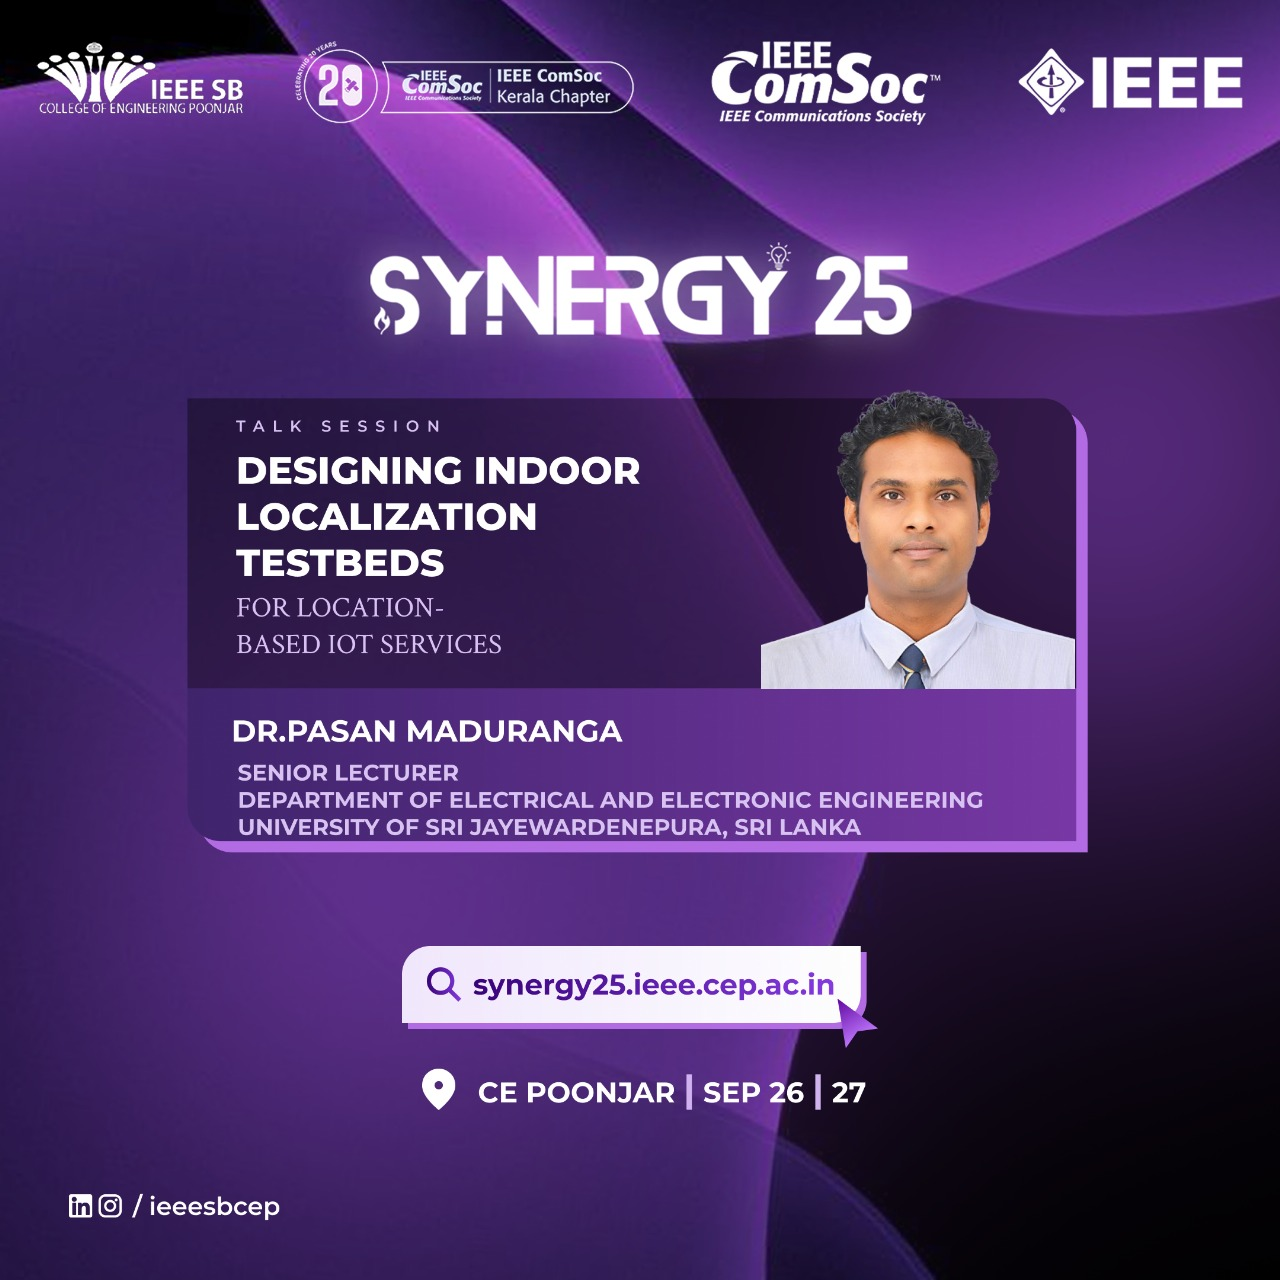
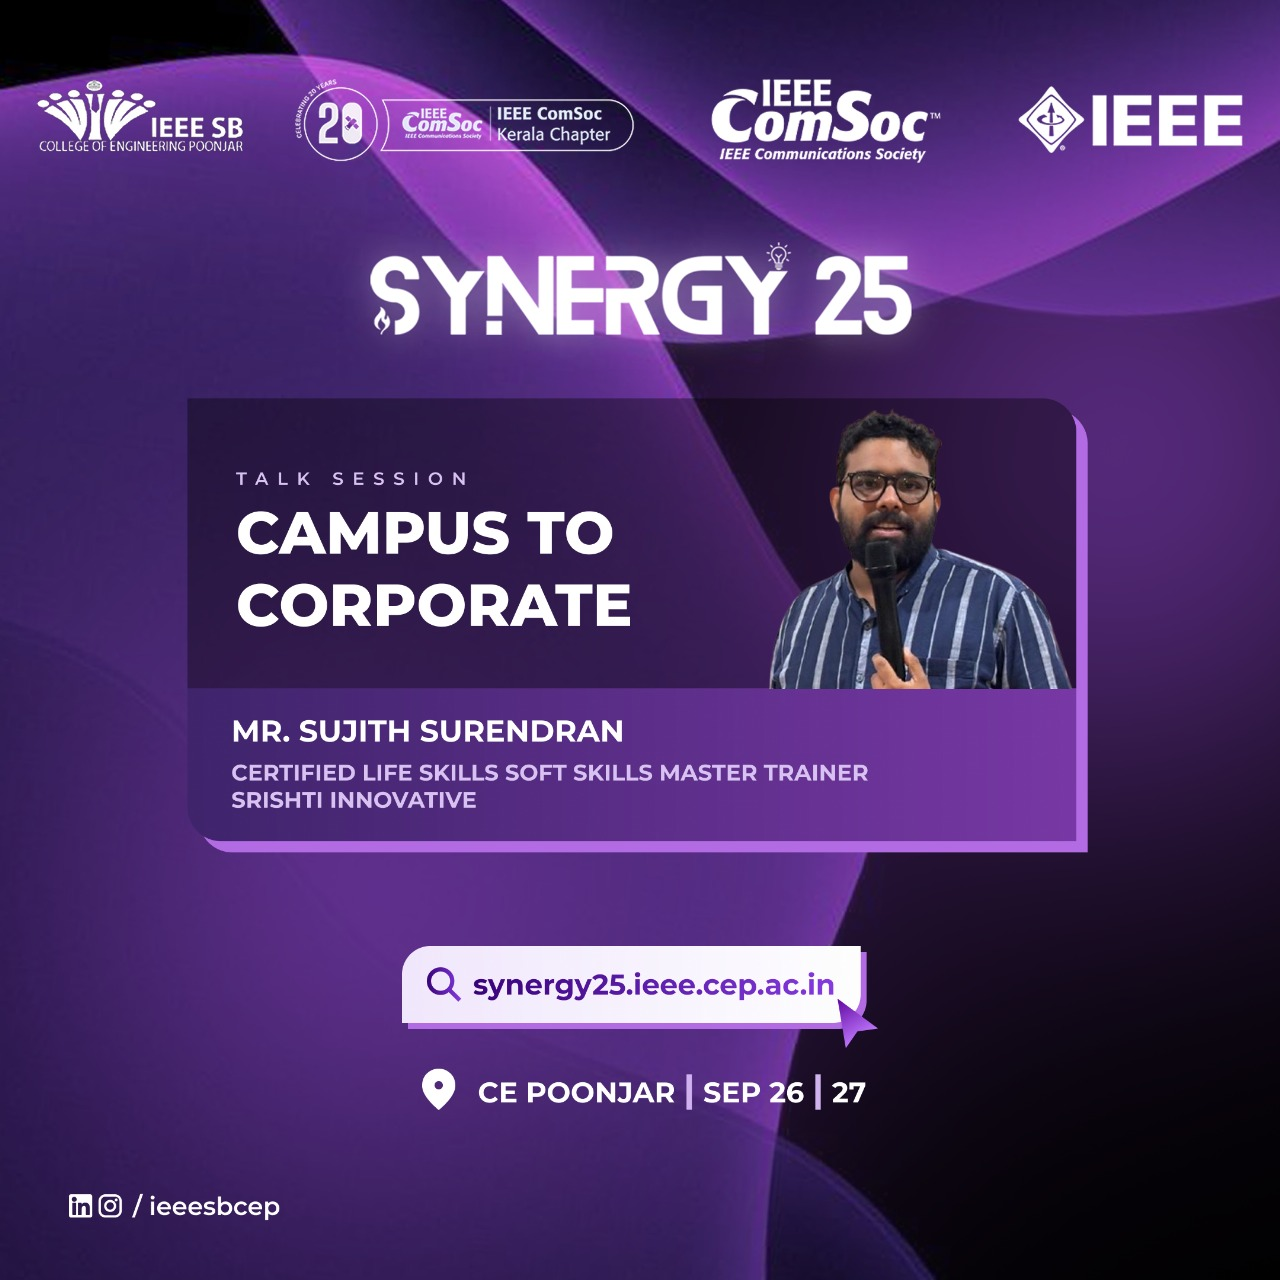
workshops updates

diff --git a/src/components/Workshops.jsx b/src/components/Workshops.jsx
@@ -120,7 +120,7 @@ const Workshops = () => {
     },
     {
       title: '',
-      description: 'TALK SESSION: Explore the future of location-based IoT services in this engaging talk session with Dr. Pasan Maduranga, a Senior Lecturer at the University of Sri Jayewardenepura. Dr. Maduranga will delve into the critical topic of indoor localization, an essential component for a vast range of modern IoT applications. This session will cover the latest techniques and practical methodologies for designing and building effective indoor localization testbeds, providing the knowledge needed to create smarter and more precise IoT solutions.',
+      description: 'TALK SESSION: Campus to Corporate Lead by Mr. Sujith Surendran, Certified Life Skills Soft Skills Master Trainer, Srishti Innovative Navigating the transition from campus life to the corporate world can be a challenge. We are proud to host Mr. Sujith Surendran, a highly-regarded Master Trainer, who will share invaluable insights on the personal and professional attributes that companies value most. He will provide actionable advice on essential topics, including mastering interviews and building a professional brand through effective etiquette. This session will equip you with the competitive edge needed to land your dream job and thrive in the corporate environment.',
       posterUrl: Workshop3
     },
   ];

diff --git a/src/components/Speakers.jsx b/src/components/Speakers.jsx
@@ -7,7 +7,7 @@ import ChromaGrid from './ChromaGrid';
 // (Your imports and speakersList array remain the same)
 import speaker1 from '../assets/Princii.jpg';
 import speaker2 from '../assets/sai.jpg';
-import speaker3 from '../assets/madduma.jpg';
+import speaker3 from '../assets/sujith.jpg';
 import speaker4 from '../assets/noble.jpg';
 import speaker5 from '../assets/Varghese.jpg';
 
@@ -30,8 +30,8 @@ const speakersList = [
   },
   {
     image: speaker3,
-    title: "Dr. Pasan Maduranga",
-    subtitle: " Senior Lecturer, University of Sri Jayewardenepura, Sri Lanka",
+    title: "Sujith Surendran",
+    subtitle: " Certified life skills soft skills Master Trainer, Srishti Innovative",
     handle: "      ",
     borderColor: "#EC4899", // Pink
     gradient: "linear-gradient(145deg, #EC4899, #1a052d)",

diff --git a/src/components/Updates.jsx b/src/components/Updates.jsx
@@ -15,10 +15,12 @@ import Updates3 from '../assets/Updates3.jpg';
 import Updates4 from '../assets/Updates5.jpg';
 import Updates5 from '../assets/Updates6.jpg';
 import Updates6 from '../assets/Updates7.jpg';
+import Updates7 from '../assets/Updates8.jpg';
 
 
 // Original array of images
 const placeholderImages = [
+  Updates7,
   Updates6,
   Updates5,
   Updates4,
